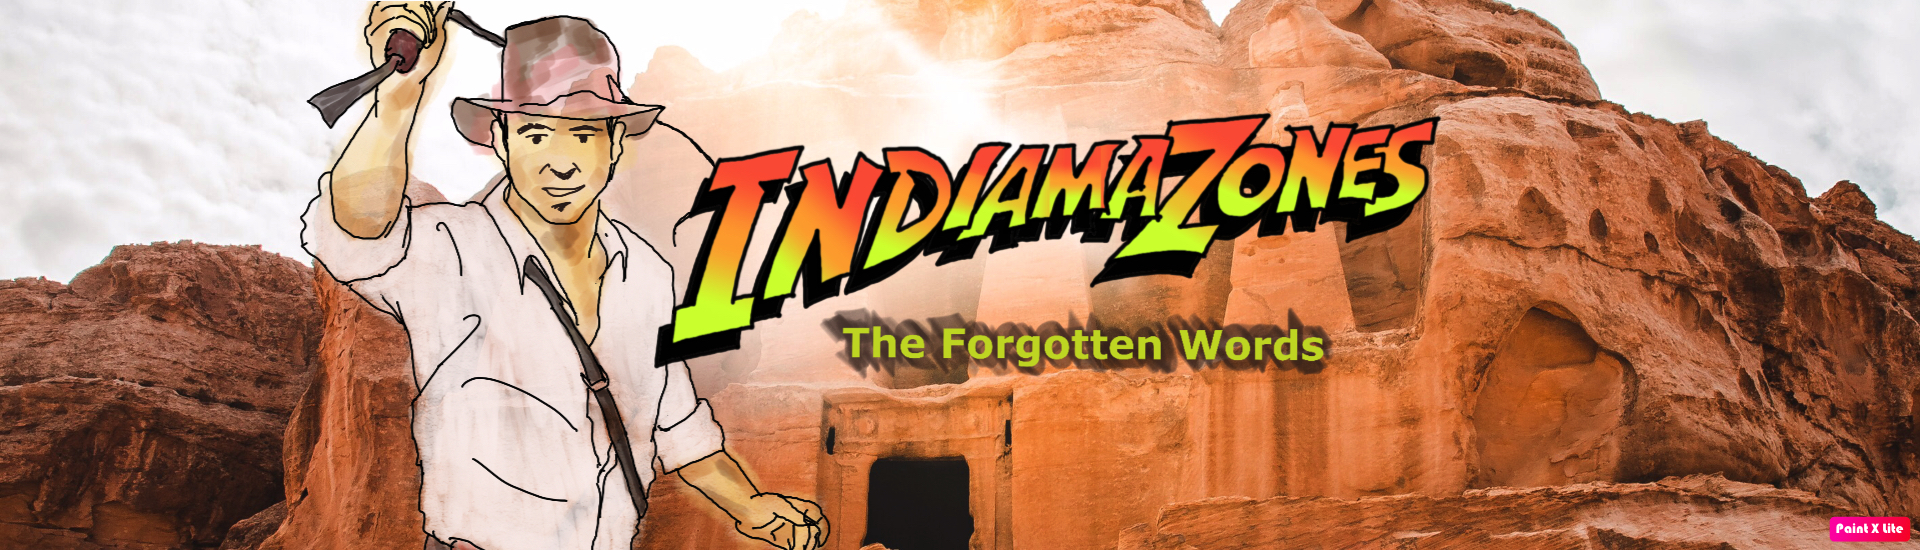
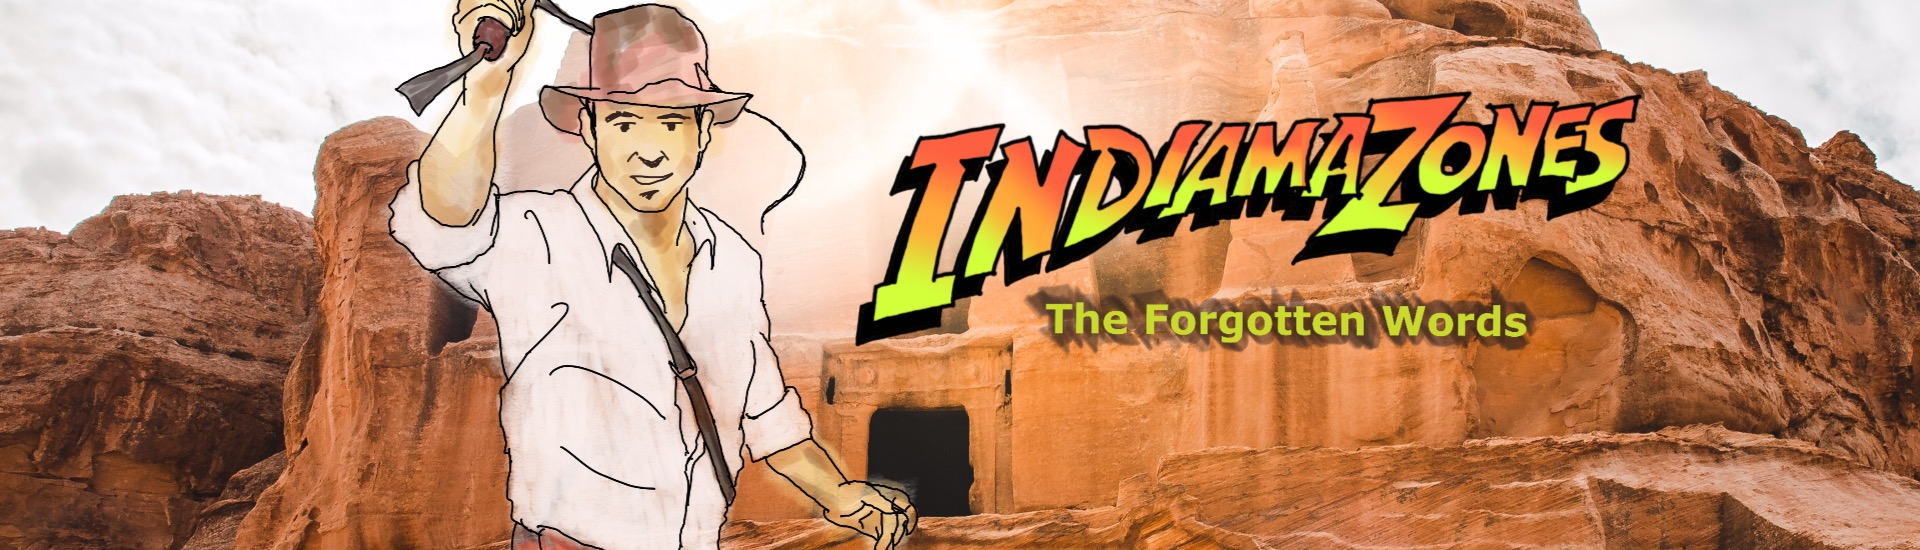
Update home component UI

diff --git a/reinvent-2019/learn-languages-ai-ml/Buildersfair-Web/src/app/home/home.component.html b/reinvent-2019/learn-languages-ai-ml/Buildersfair-Web/src/app/home/home.component.html
@@ -7,81 +7,84 @@ background-image: url(../../assets/images/background/bg-main-02.jpg);">
             <div class="col-11">
             </div>
             <div class="col-1 align-self-center text-right">
-                <img src="../../assets/images/builders_logo.jpg" alt="logo">
+                <!--<img src="../../assets/images/builders_logo.jpg" alt="logo">-->
             </div>
         </div>
       </header>
-      <h1 data-aos="fade" data-aos-easing="linear" data-aos-duration="1000" data-aos-once="true" class="display-3 text-black-60 font-weight-bold">
-        Welcome to<br>
-        Indiama Zones!
-      </h1>
-      <p id="p1" data-aos="fade" data-aos-easing="linear" data-aos-duration="1000" data-aos-once="true" class="lead text-black-60 my-4">
-          A casual game to learn languages with AWS AI/ML
-      </p>
-      <br>
-      <button class="btn btn-primary btn-lg" aria-label="Left" (click)="playGame()">
-        <i fa name="play-circle"></i> Get Started
-      </button>
-      <button class="btn btn-primary btn-lg ml-4" aria-label="Left" (click)="playTrailer()">
-        <i fa name="video-camera"></i> Watch Trailer
-      </button>
   </div>
+  <div class="row text-left">
+      <div class="col-1"></div>
+        <div class="col">
+            <div class="text-left">
+                <h1 data-aos="fade" data-aos-easing="linear" data-aos-duration="1000" data-aos-once="true" class="display-3 text-black-60 font-weight-bold">
+                    Welcome to<br>
+                    Indiama Zones!
+                </h1>
+                <div class="row">
+                    <p id="p1" data-aos="fade" data-aos-easing="linear" data-aos-duration="1000" data-aos-once="true" class="lead bg-dark text-white my-4">
+                        &nbsp;A casual game to learn languages with AWS AI/ML&nbsp;
+                    </p>
+                </div>
+                <br>
+                &nbsp;
+                <button class="btn btn-primary btn-lg" aria-label="Left" (click)="playGame()">
+                    <i fa name="play-circle"></i> Get Started
+                </button>
+                <button class="btn btn-primary btn-lg ml-4" aria-label="Left" (click)="playTrailer()">
+                    <i fa name="video-camera"></i> Watch Trailer
+                </button>
+            </div>
+        </div>
+    </div>
 </div>  
 
 <!-- three-block -->
-<div class="container my-5 py-2">
+<div class="container my-4 py-2">
   <h2 class="text-center font-weight-bold my-3">Project Abstract</h2>
   <div class="row text-center">
-      <div>
-          <h4></h4>
-          <br>
-          <h4>Boost your language learning with AWS AI/ML services.</h4>
-          <br>
-          <h4>AWS AI / ML services are the perfect technologies to help users read, write, and speak foreign languages.</h4>
-          <br>
-      </div>
-      <!--
-      <div class="row text-center">
-        <div data-aos="fade-up" data-aos-delay="0" data-aos-duration="1000" data-aos-once="true" class="col-4 text-center">
-            <img src="../../assets/images/angular_logo.jpg" alt="AngularJS" height="120" class="mx-auto">
-            <br>
-            <h4>AngularJS</h4>
-            <p>Front-end web framework</p>
-        </div>
-        <div data-aos="fade-up" data-aos-delay="200" data-aos-duration="1000" data-aos-once="true" class="col-4 text-center">
-            <img src="../../assets/images/dotnet_core_logo.png" alt=".NET Core" height="120" class="mx-auto">
-            <br>
-            <h4>.NET Core</h4>
-            <p>Middle-tier API service</p>
-        </div>
-      </div>
-      -->
+    <div>
+        <h4></h4>
+        <h4>Boost your language learning with AWS AI/ML services.</h4>
+        <h4>AWS AI / ML services are the perfect technologies to help users read, write, and speak foreign languages.</h4>
+        <br>
+    </div>
 
-    <div data-aos="fade-up" data-aos-delay="400" data-aos-duration="1000" data-aos-once="true" class="col-3 text-center">
+    <div data-aos="fade-up" data-aos-delay="400" data-aos-duration="1000" data-aos-once="true" class="col-2 text-center">
+        <img src="../../assets/images/angular_logo.jpg" alt="Amazon Rekognition" height="100" class="mx-auto">
+        <br><br>
+        <h4>AngularJS</h4>
+        <p>Front-end web framework</p>
+    </div>
+    <div data-aos="fade-up" data-aos-delay="400" data-aos-duration="1000" data-aos-once="true" class="col-2 text-center">
+        <img src="../../assets/images/dotnet_core_logo.png" alt="Amazon Rekognition" height="100" class="mx-auto">
+        <br><br>
+        <h4>.NET Core</h4>
+        <p>Middle-tier API service</p>
+    </div>    
+    <div data-aos="fade-up" data-aos-delay="400" data-aos-duration="1000" data-aos-once="true" class="col-2 text-center">
         <img src="../../assets/images/icon-rekognition.jpg" alt="Amazon Rekognition" height="100" class="mx-auto">
         <br>
         <h4>Amazon<br>Rekognition</h4>
-        <p>Image recognition and Object detection</p>
+        <p>Visual Analysis</p>
     </div>
-    <div data-aos="fade-up" data-aos-delay="400" data-aos-duration="1000" data-aos-once="true" class="col-3 text-center">
+    <div data-aos="fade-up" data-aos-delay="400" data-aos-duration="1000" data-aos-once="true" class="col-2 text-center">
         <img src="../../assets/images/icon-textract.jpg" alt="Amazon Rekognition" height="100" class="mx-auto">
         <br>
         <h4>Amazon<br>Textract</h4>
-        <p>Optical Character Recogintion</p>
+        <p>Extract Text (OCR)</p>
     </div>
-    <div data-aos="fade-up" data-aos-delay="400" data-aos-duration="1000" data-aos-once="true" class="col-3 text-center">
+    <div data-aos="fade-up" data-aos-delay="400" data-aos-duration="1000" data-aos-once="true" class="col-2 text-center">
         <img src="../../assets/images/icon-polly.jpg" alt="Amazon Rekognition" height="100" class="mx-auto">
         <br>
         <h4>Amazon<br>Polly</h4>
-        <p>Text to Speech</p>
+        <p>Text To Speech (TTS)</p>
     </div>
-    <div data-aos="fade-up" data-aos-delay="400" data-aos-duration="1000" data-aos-once="true" class="col-3 text-center">
+    <div data-aos="fade-up" data-aos-delay="400" data-aos-duration="1000" data-aos-once="true" class="col-2 text-center">
         <img src="../../assets/images/icon-transcribe.jpg" alt="Amazon Rekognition" height="100" class="mx-auto">
         <br>
         <h4>Amazon<br>Transcribe</h4>
-        <p>Speech recognition</p>
+        <p>Speech Recognition</p>
     </div>
-
   </div>
 </div>
 
@@ -102,13 +105,17 @@ background-image: url(../../assets/images/background/bg-main-02.jpg);">
 </div>
 
 <!-- diagram -->
-<div class="container my-5 py-2">
-    <h2 class="text-center font-weight-bold my-5">Architecture Diagram</h2>
-    <br>
-    <div class="row text-center">
-        <div data-aos="fade-up" data-aos-delay="0" data-aos-duration="1000" data-aos-once="true" class="col text-center">
-            <img src="../../assets/images/diagram.jpg" alt="Architecture Diagram" height="750" class="mx-auto text-center">
+<div>
+    <div class="container">
+        <h2 class="text-center font-weight-bold my-5">Architecture Diagram</h2>
+    </div>
+    <div>
+        <div class="row text-center">
+            <div data-aos="fade-up" data-aos-delay="0" data-aos-duration="1000" data-aos-once="true" class="col text-center">
+                <img src="../../assets/images/diagram.jpg" alt="Architecture Diagram" height="750" class="mx-auto text-center">
+            </div>
         </div>
+        <br><br>
     </div>
 </div>
 

diff --git a/reinvent-2019/learn-languages-ai-ml/Buildersfair-Web/src/app/home/home.component.ts b/reinvent-2019/learn-languages-ai-ml/Buildersfair-Web/src/app/home/home.component.ts
@@ -16,9 +16,9 @@ export class HomeComponent implements OnInit {
   }
 
   animate(): void {
-    TweenMax.fromTo('h1', 3, {x: 250}, {x: 0});
-    TweenMax.fromTo('#p1', 2.4, {x: 300}, {x: 0});
-    TweenMax.fromTo('#p2', 3.3, {x: 300}, {x: 0});
+    TweenMax.fromTo('h1', 3, {x: 220}, {x: 0});
+    TweenMax.fromTo('#p1', 2.4, {x: 300}, {x: 20});
+    TweenMax.fromTo('#p2', 3.3, {x: 300}, {x: 20});
   }
   playGame() {
     this.router.navigateByUrl('/game');
